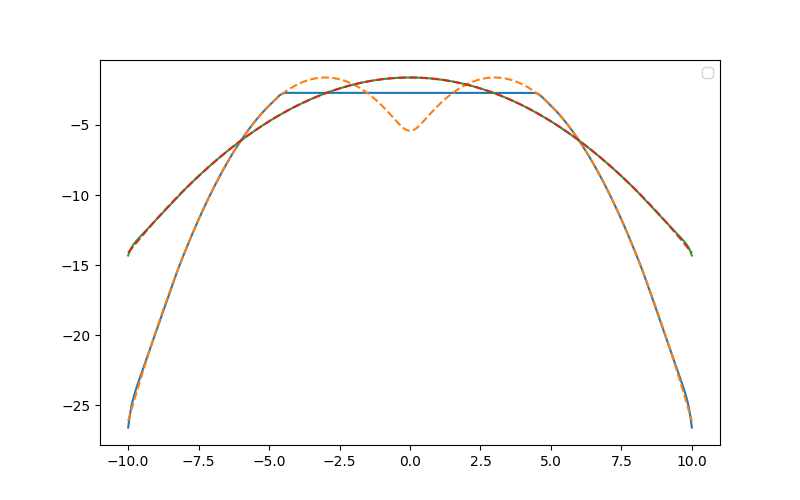
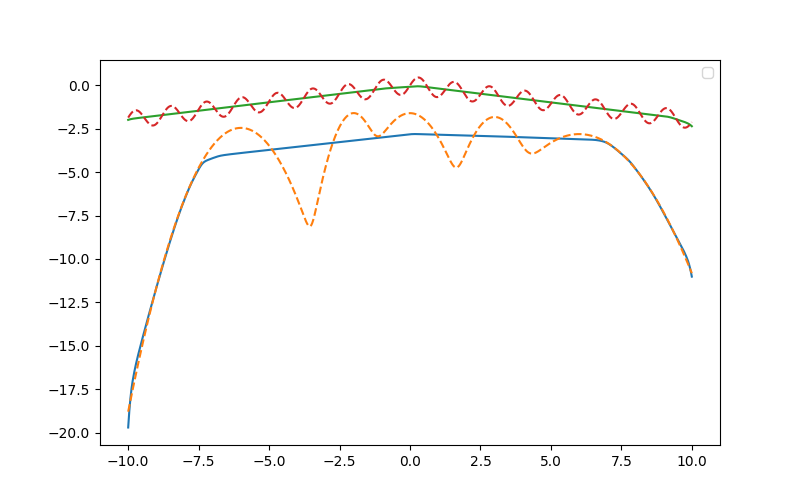
Real Real

diff --git a/variational/nonparam_lsvi.py b/variational/nonparam_lsvi.py
@@ -6,7 +6,7 @@ from variational.data_generation import generate_data
 from variational.spline_estimation import get_BSpline_decomposition, get_beta_derivative
 from variational.optimization import find_mode
 
-epsilon = 1e-8
+epsilon = 1e-10
 
 def nonparam_lsvi(f, order=4, N=20, rho=0.5, eps=1e-1, Constraint="Concavity"):
     
@@ -33,27 +33,30 @@ def nonparam_lsvi(f, order=4, N=20, rho=0.5, eps=1e-1, Constraint="Concavity"):
 
         def B(x):
             if x>knots[-1]:
-                return B_aux(knots[-1])[0] + B_Prime_aux(knots[-1])[0]*(x - knots[-1])
+                return B_aux(knots[-1]-epsilon)[0] + B_Prime_aux(knots[-1]-epsilon)[0]*(x - knots[-1])
             elif x<knots[0]:
-                return B_aux(knots[0])[0] + B_Prime_aux(knots[0])[0]*(x - knots[0])
+                return B_aux(knots[0]+epsilon)[0] + B_Prime_aux(knots[0]+epsilon)[0]*(x - knots[0])
             return B_aux(x)[0]
 
 
         def B_Prime(x):
             if x>knots[-1]:
-                print("B_Prime extrapolated at right")
                 print(B_Prime_aux(knots[-1]-epsilon)[0])
                 return B_Prime_aux(knots[-1]-epsilon)[0]
             elif x<knots[0]:
-                print("B_Prime extrapolated at left")
                 print(B_Prime_aux(knots[0]+epsilon)[0])
                 return B_Prime_aux(knots[0]+epsilon)[0]
             return B_Prime_aux(x)[0]
 
-        x_axis = np.linspace(knots[0], knots[-1], 500)
+        x_axis = np.linspace(knots[0]-5, knots[-1]+5, 700)
+        y_f = np.array([f(x) for x in x_axis])
         y_B = np.array([B(x) for x in x_axis])
         y_Bprime = np.array([B_Prime(x) for x in x_axis])
 
+        for k in knots:
+            plt.axvline(k, color='gray', linestyle='--', alpha=0.8)
+
+        plt.plot(x_axis, y_f, label="f(x)")
         plt.plot(x_axis, y_B, label="B(x)")
         plt.plot(x_axis, y_Bprime, label="B'(x)")
         plt.show()

diff --git a/experiments/logdens_splineestimation.py b/experiments/logdens_splineestimation.py
@@ -3,21 +3,28 @@ import matplotlib.pyplot as plt
 from splipy import Curve
 from variational.spline_estimation import get_BSpline_decomposition
 
-N = 100
+N = 10
 order = 4
 
 def f(x):
-    p1, mu1, sigma1 = 0.5, -3, 1
-    p2, mu2, sigma2 = 0.5, 3, 1
-    dens = (
-        p1 / (np.sqrt(2 * np.pi) * sigma1) * np.exp(-0.5 * ((x - mu1) / sigma1) ** 2)
-        + p2 / (np.sqrt(2 * np.pi) * sigma2) * np.exp(-0.5 * ((x - mu2) / sigma2) ** 2)
+    comps = [
+        (0.15, -6, 0.7),
+        (0.20, -2, 0.4),
+        (0.30,  0, 0.6),
+        (0.20,  3, 0.5),
+        (0.15,  6, 1.0),
+    ]
+    dens = sum(
+        p / (np.sqrt(2*np.pi)*s) * np.exp(-0.5*((x-m)/s)**2)
+        for p, m, s in comps
     )
     return np.log(dens)
 
 def f2(x):
-    mu, sigma = 0, 2
-    return -0.5 * np.log(2 * np.pi * sigma**2) - 0.5 * ((x - mu) / sigma) ** 2
+    main = -0.2 * (np.abs(x))
+    wiggle = 0.5 * np.sin(5*x)
+    dens = np.exp(main + wiggle)
+    return np.log(dens)
 
 X = np.linspace(-10, 10, N)
 

diff --git a/variational/spline_estimation.py b/variational/spline_estimation.py
@@ -45,21 +45,15 @@ def get_BSpline_decomposition(f, X, order=4, Constraint=None, a=None, b=None):
         lower_bounds = np.concatenate(([-np.inf], np.zeros(X_Tilde.shape[1] - 1)))
         upper_bounds = np.full(X_Tilde.shape[1], np.inf)
 
-
-        print("X_Tilde", X_Tilde.shape)
-        print("contains nan:", np.isnan(X_Tilde).any())
-        print("contains inf:", np.isinf(X_Tilde).any())
-        print("lower_bounds", lower_bounds.shape)
-        print("upper_bounds", upper_bounds.shape)
-        print("f_X", f_X.shape)
-
         res = lsq_linear(X_Tilde, f_X, bounds=(lower_bounds, upper_bounds))
         beta = np.matmul(Sigma, res.x)
 
-    else:
+    elif Constraint is None:
         beta = lsq_linear(X_Tilde, f_X)
 
-    
+    else:
+        raise ValueError("Constraint not recognized")
+
     return beta, BSpline_Basis, BSpline_Basis_lower
 
 def get_beta_derivative(beta, knots, N, order):

diff --git a/experiments/logdens_lsviapprox.py b/experiments/logdens_lsviapprox.py
@@ -4,7 +4,7 @@ import matplotlib.pyplot as plt
 from variational.nonparam_lsvi import nonparam_lsvi
 
 
-N = 30
+N = 10
 order = 4
 rho = 0
 eps = 1
@@ -16,7 +16,7 @@ def f(x):
         p1 / (np.sqrt(2 * np.pi) * sigma1) * np.exp(-0.5 * ((x - mu1) / sigma1) ** 2)
         + p2 / (np.sqrt(2 * np.pi) * sigma2) * np.exp(-0.5 * ((x - mu2) / sigma2) ** 2)
     )
-    return np.log(dens)
+    return np.log(dens)+10
 
 approxList = nonparam_lsvi(f, order=order, eps=eps, N=N, rho=rho)
 print(len(approxList))

diff --git a/variational/optimization.py b/variational/optimization.py
@@ -1,3 +1,4 @@
+import numpy as np
 from scipy.optimize import minimize, fsolve
 
 def find_mode(B):
@@ -5,14 +6,11 @@ def find_mode(B):
     return res.x[0]
 
 def find_sz(B, rho):
-    def gs(x):
-        return B(-x) + rho
 
-    s = fsolve(gs, x0=0)[0]
+    gs = lambda x: B(-np.abs(x)) + rho
+    gz = lambda x: B(np.abs(x)) + rho
 
-    def gz(x):
-        return B(x) + rho
-
-    z = fsolve(gz, x0=0)[0]
+    s = np.abs(fsolve(gs, x0=0)[0])
+    z = np.abs(fsolve(gz, x0=0)[0])
 
     return s, z

diff --git a/variational/data_generation.py b/variational/data_generation.py
@@ -22,7 +22,7 @@ def generate_data(B, B_Prime, N, rho):
     q = z_tilde + s_tilde
 
     print("Generating data with parameters:")
-    print(f"mode: {mode}, s: {s}, z: {z}, ksi: {ksi}, dzeta: {dzeta}")
+    print(f"mode: {mode}, s: {s}, s_tilde: {s_tilde}, z: {z}, z_tilde: {z_tilde}, ksi: {ksi}, dzeta: {dzeta}")
 
     samples = []
 
